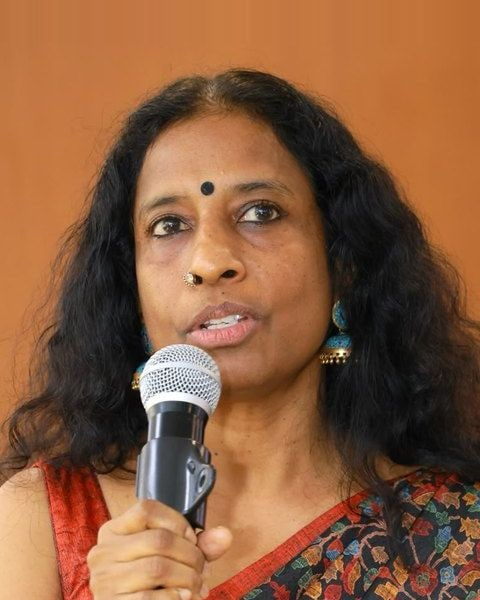
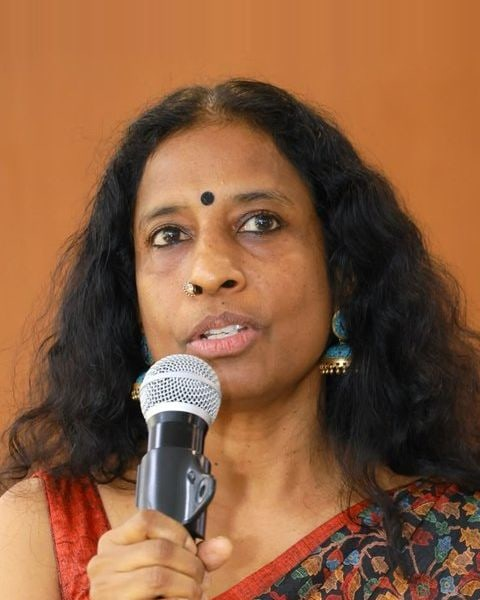
Team: Tara Oracle line up front and reframed photo; Aman in Delhi and Prayagraj; Ayushman opener trimmed

diff --git a/lib/content.ts b/lib/content.ts
@@ -131,9 +131,9 @@ export const TEAM: { name: string; photo: string; role: string; bio: string[]; e
     photo: "/img/tara-krishnaswamy.jpg",
     role: "Policy Counsel",
     bio: [
-      "Tara works on democracy, federalism and public policy. She co-founded Political Shakti, a non-partisan collective that presses for more women MLAs and MPs. Its Selfless Selfie campaign for the Bihar elections won a Cannes Lions Gold and two Silvers in 2022. It also won the Spikes Asia Grand Prix and two Clio Bronzes for social impact.",
+      "Tara works on democracy, federalism and public policy. She co-founded Political Shakti, a non-partisan collective that presses for more women MLAs and MPs. Earlier, she was Director of Software Development, Asia Pacific, at Oracle. Political Shakti's Selfless Selfie campaign for the Bihar elections won a Cannes Lions Gold and two Silvers in 2022. It also won the Spikes Asia Grand Prix and two Clio Bronzes for social impact.",
       "She has presented to two Rajya Sabha Standing Committees and to the Justice Verma Committee on rape law reform. She was a special invitee to the 15th Finance Commission workshop on fiscal federalism. As co-founder of Citizens for Bengaluru, she worked with the Karnataka government on suburban rail and bus lanes, and with the BBMP on ward committees. For 12 years she has advised election campaigns, from city wards to national races.",
-      "Before public life, Tara was Director of Software Development, Asia Pacific, at Oracle. Earlier, she held regional and engineering leadership roles at Sun Microsystems and Hewlett-Packard. She holds US patents and the company's President's Award. She writes for the Times of India, Hindustan Times, Mint and Deccan Herald, and contributed to Penguin's Her Right to Equality.",
+      "Before Oracle, Tara held regional and engineering leadership roles at Sun Microsystems and Hewlett-Packard. She holds US patents and a President's Award. She writes for the Times of India, Hindustan Times, Mint and Deccan Herald, and contributed to Penguin's Her Right to Equality.",
     ],
     edu: [],
   },
@@ -143,7 +143,7 @@ export const TEAM: { name: string; photo: string; role: string; bio: string[]; e
     photo: "/img/aman-naqvi.jpg",
     role: "Of Counsel",
     bio: [
-      "Aman is an advocate in Delhi with his own practice. He works on constitutional litigation, criminal matters and high-stakes commercial disputes.",
+      "Aman is an advocate with his own practice in Delhi and Prayagraj (Allahabad). He works on constitutional litigation, criminal matters and high-stakes commercial disputes.",
       "He was an Associate in the chambers of Shadan Farasat, Senior Advocate. Before that, he spent three years as an Advocate at Farasat Law Offices.",
     ],
     edu: ["B.A. LL.B., Chanakya National Law University, Patna"],
@@ -154,7 +154,7 @@ export const TEAM: { name: string; photo: string; role: string; bio: string[]; e
     photo: "/img/ayushman-tripathi.jpg",
     role: "Technology Consultant",
     bio: [
-      "Ayushman advises ECL on legal technology, data protection and AI governance, with a focus on banking and finance. He designs AI-enabled workflows for regulatory and transactional documents.",
+      "Ayushman advises ECL on legal technology, data protection and AI governance. He designs AI-enabled workflows for regulatory and transactional documents.",
       "His research covers the DPDP Act, 2023, the IT Rules, 2021, competition law in digital markets and intellectual property. He has taught at MNLU Mumbai and as guest faculty at TISS. He has presented at Georgetown University and Queen Mary University of London. He has written two books.",
     ],
     edu: ["Ph.D., Hidayatullah National Law University, Raipur", "LL.M., Maharashtra National Law University, Mumbai"],
